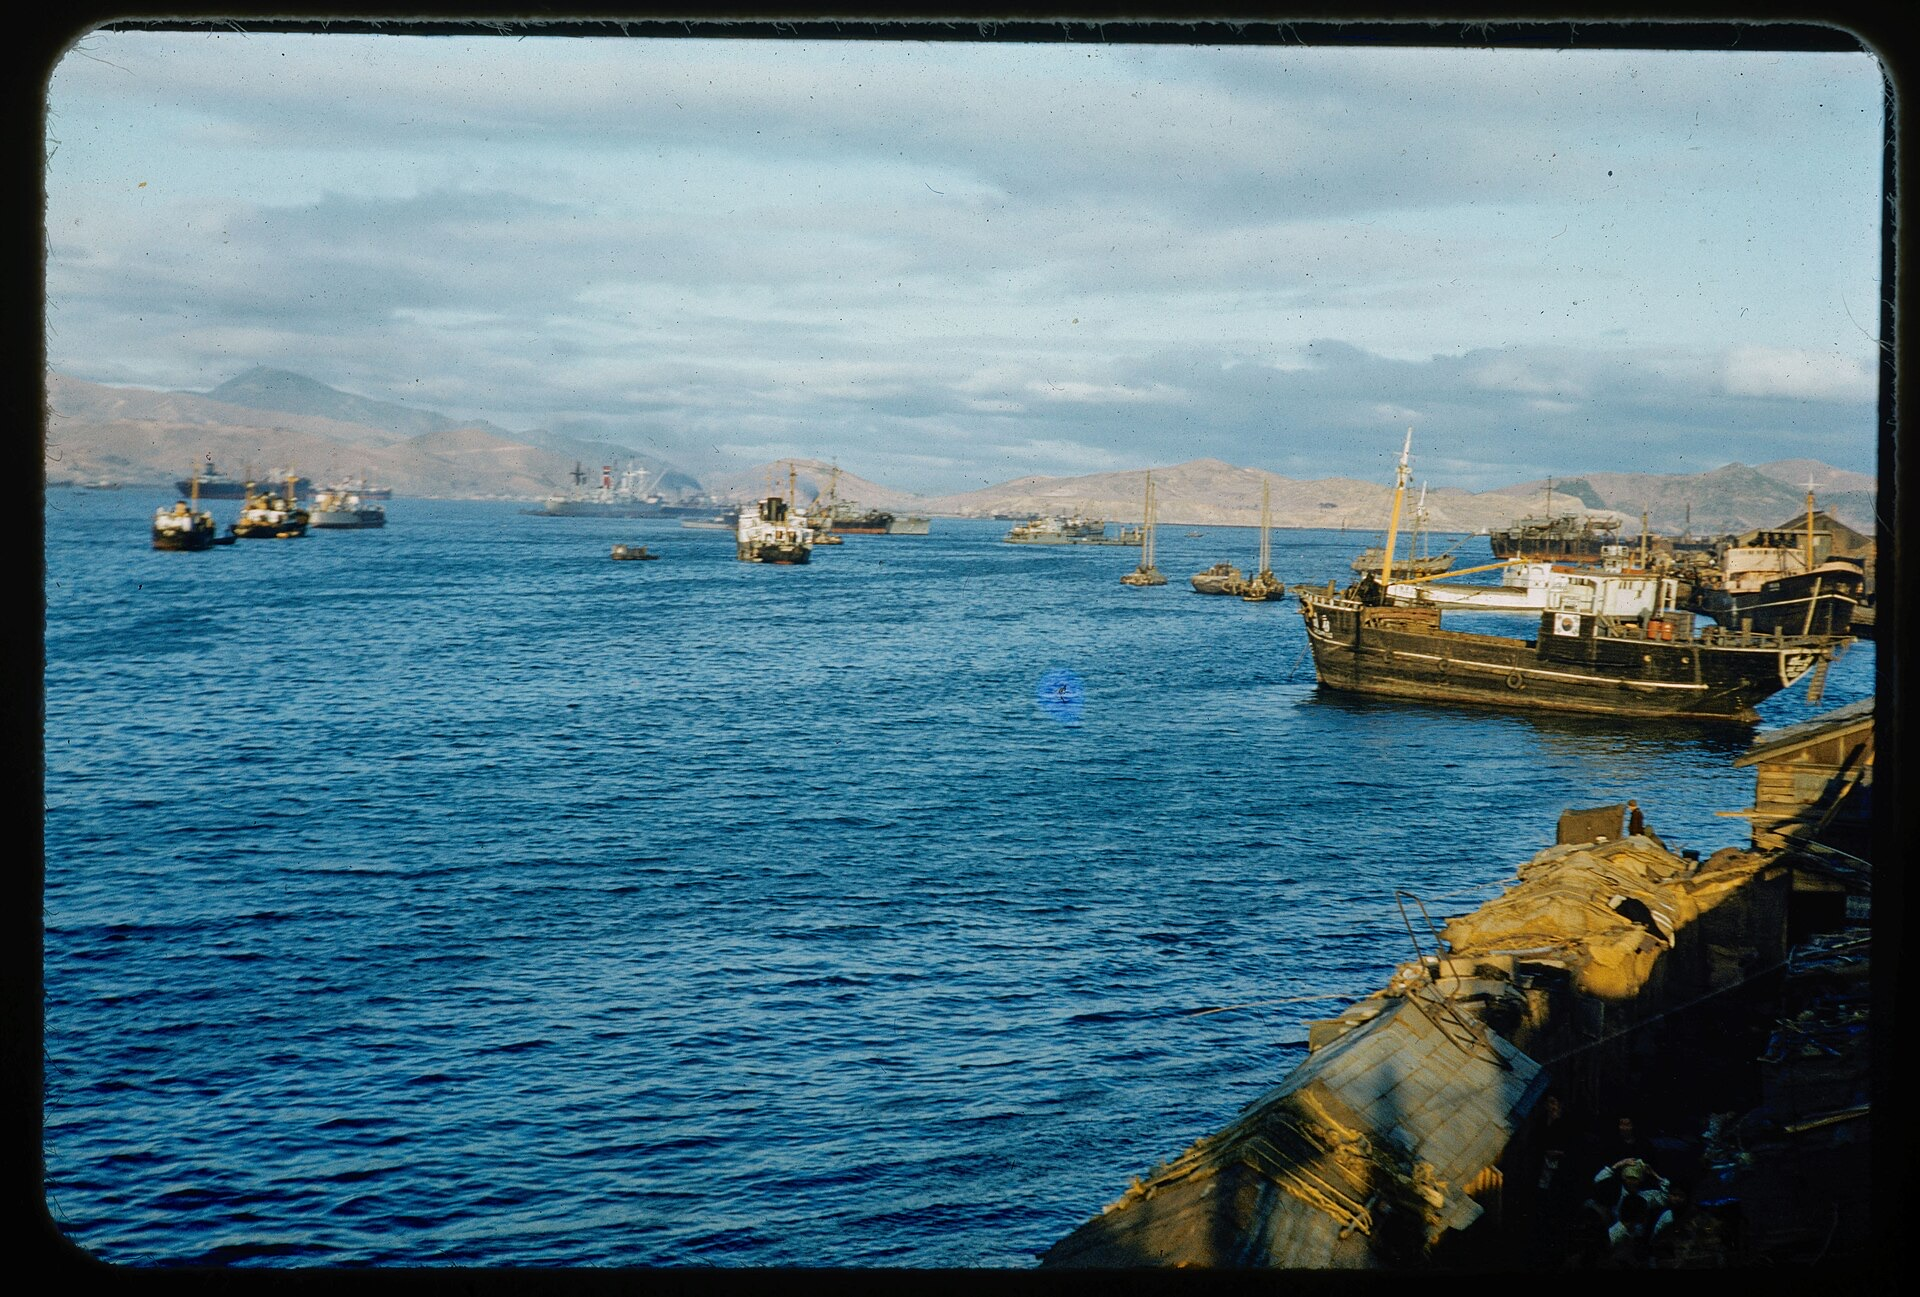
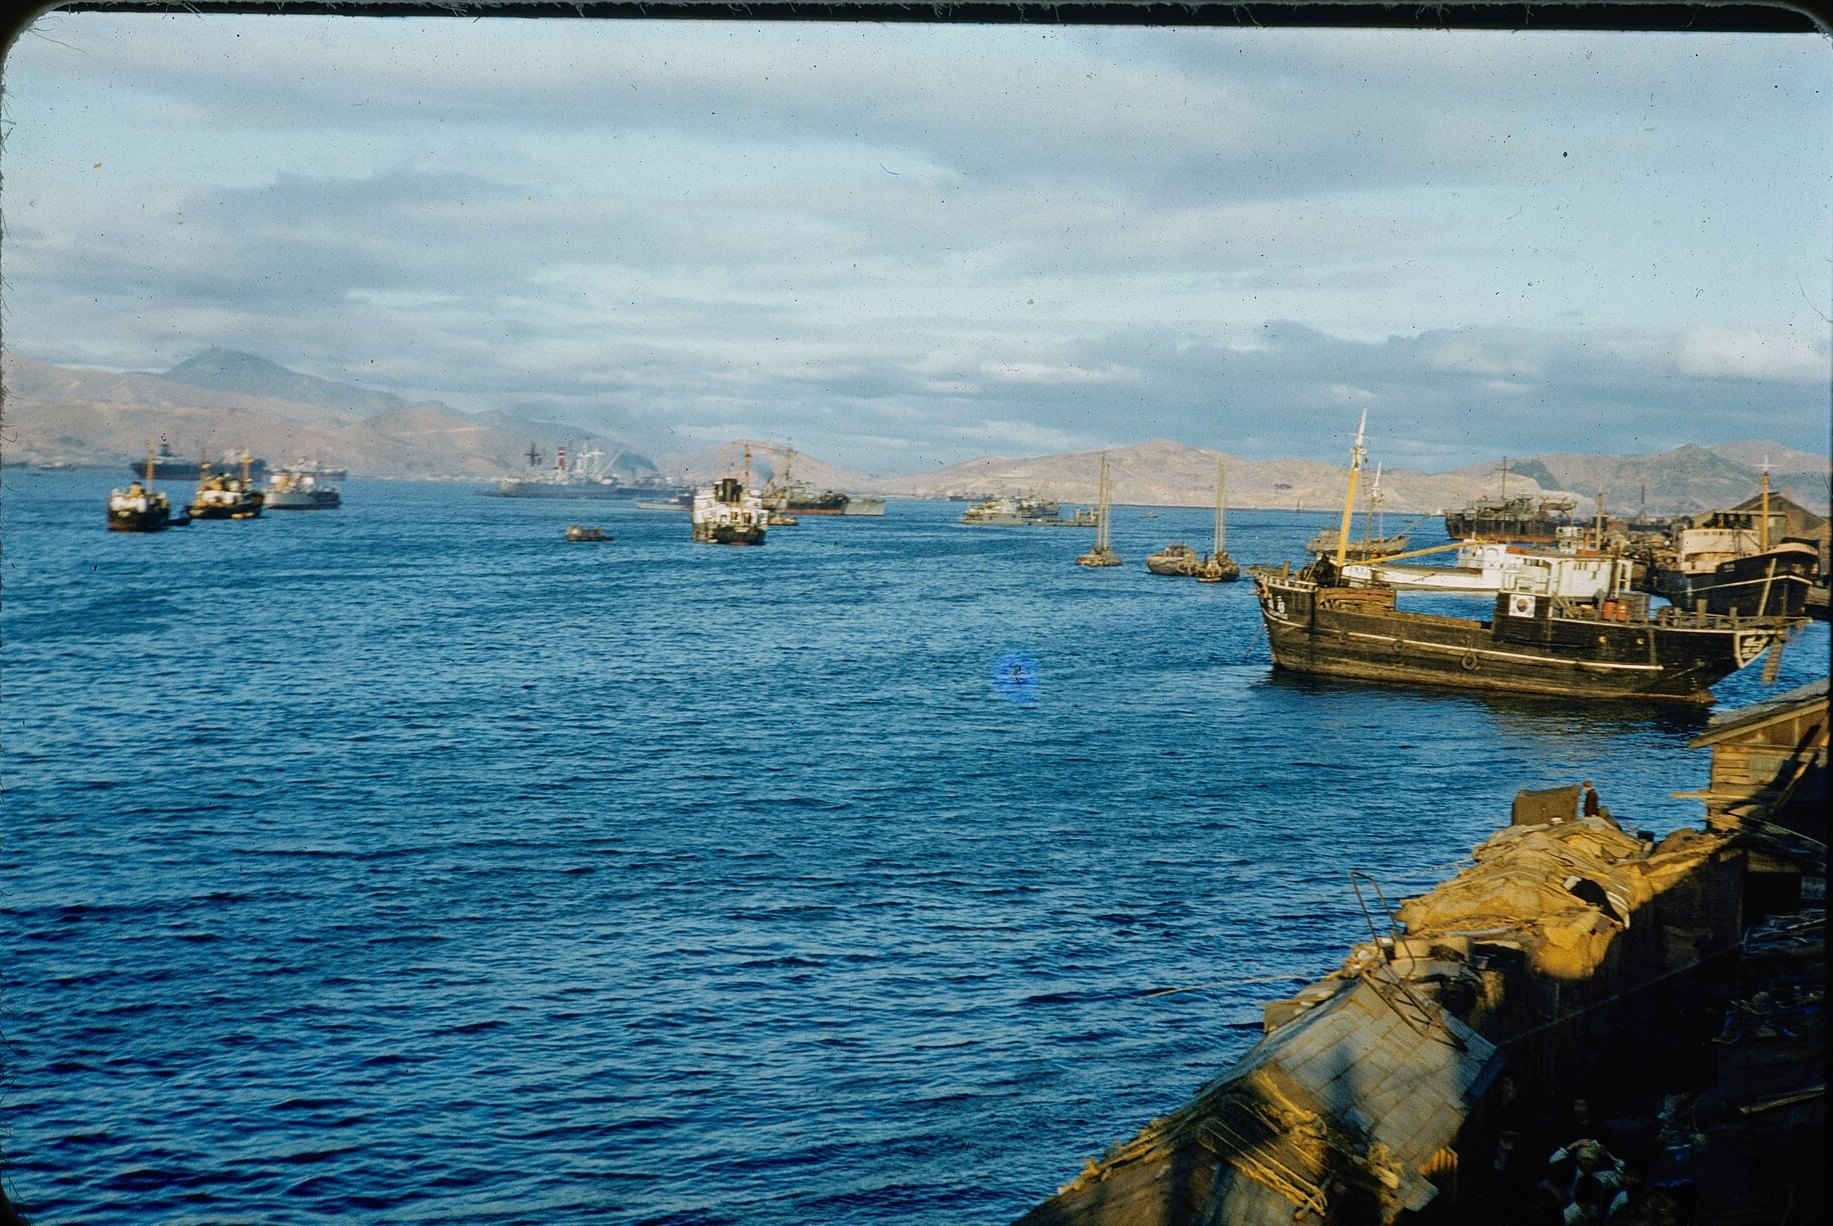
style(hero): 검정 필름 테두리 제거 + 켄 번스(Ken Burns) 효과
- hero.jpg의 슬라이드 검정 테두리 크롭(좌우 끝 검정 배경 제거)
- 히어로 배경에 느린 확대 왕복(scale 1.05↔1.15, 20s, alternate) — 수원 데모식 켄 번스
- prefers-reduced-motion 시 애니메이션 정지(접근성)

🤖 Generated with [Claude Code](https://claude.com/claude-code)

diff --git a/exhibit/index.html b/exhibit/index.html
@@ -32,10 +32,13 @@
   .ip-title,.story-title,.tl-detail .ttl,.nc-name{font-family:var(--serif)}
   a{color:var(--accent)}
   /* 히어로 */
-  .hero{position:relative;isolation:isolate;min-height:580px;display:flex;align-items:center;
+  .hero{position:relative;isolation:isolate;overflow:hidden;min-height:580px;display:flex;align-items:center;
     justify-content:center;text-align:center;padding:112px 24px 92px;color:#fff}
   .hero::before{content:"";position:absolute;inset:0;z-index:-2;
-    background:url("assets/hero.jpg") center 42%/cover no-repeat}
+    background:url("assets/hero.jpg") center 42%/cover no-repeat;
+    transform:scale(1.05);animation:heroKenBurns 20s ease-in-out infinite alternate;will-change:transform}
+  @keyframes heroKenBurns{from{transform:scale(1.05)}to{transform:scale(1.15)}}
+  @media(prefers-reduced-motion:reduce){.hero::before{animation:none;transform:none}}
   .hero::after{content:"";position:absolute;inset:0;z-index:-1;
     background:linear-gradient(180deg,rgba(18,22,28,.52),rgba(18,22,28,.32) 42%,rgba(18,22,28,.74))}
   .hero-inner{max-width:760px}